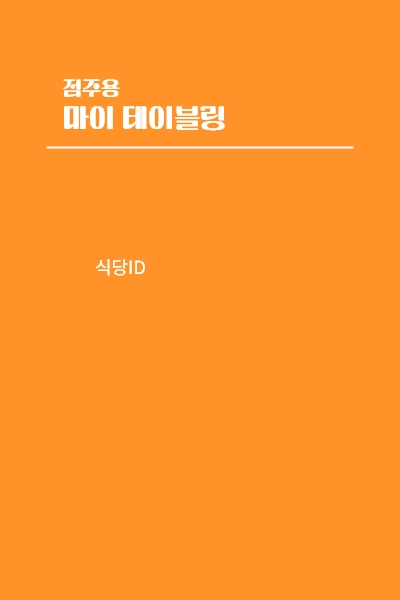
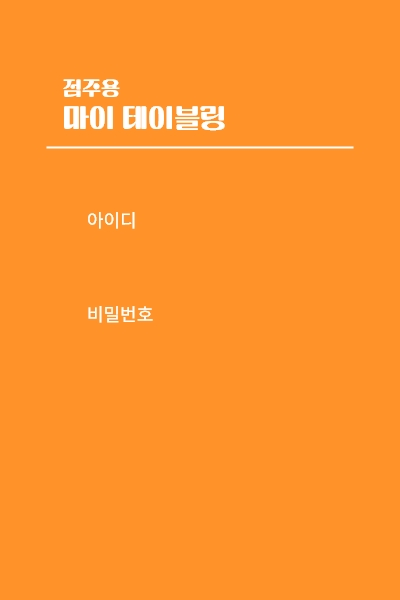
점주로그인창 비밀번호 매칭 구현

Changed region(s): [[0.21, 0.33, 0.36, 0.39], [0.24, 0.42, 0.36, 0.48], [0.21, 0.51, 0.39, 0.54]]

diff --git a/src/tabling/frame/RestaurantLoginFrame.java b/src/tabling/frame/RestaurantLoginFrame.java
@@ -18,13 +18,12 @@ import tabling.dto.RestaurantDTO;
 
 public class RestaurantLoginFrame extends JFrame {
 
-	private JLabel loginBtn;
-	private JTextField nameText;
-	private boolean loginCheck;
-	private JLabel backBtn;
 	private BackgroundPanel backgroundPanel;
-	
-	// TODO - 임시로 클래스 설계
+	private JTextField resIdText;
+	private JTextField resPwText; // TODO
+	private JLabel loginBtn;
+	private JLabel backBtn;
+	private boolean loginCheck;
 	private RestaurantDAO restaurantDao;
 	private RestaurantDTO restaurantDto;
 	private int restaurantId;
@@ -38,9 +37,10 @@ public class RestaurantLoginFrame extends JFrame {
 	private void initData() {
 		backgroundPanel = new BackgroundPanel();
 		loginBtn = new JLabel(new ImageIcon("img/loginBtn.png"));
-		nameText = new JTextField();
+		resIdText = new JTextField();
+		resPwText = new JTextField();
 		backBtn = new JLabel(new ImageIcon("img/quitBtn.png"));
-	
+
 		restaurantDao = new RestaurantDAO();
 		restaurantDto = new RestaurantDTO();
 	}
@@ -58,7 +58,7 @@ public class RestaurantLoginFrame extends JFrame {
 		backgroundPanel.setLayout(null);
 		add(backgroundPanel);
 
-		loginBtn.setBounds(35, 420, 314, 46);
+		loginBtn.setBounds(35, 425, 314, 46);
 		loginBtn.setFont(new Font("Noto Sans KR", Font.BOLD, 15));
 		backgroundPanel.add(loginBtn);
 
@@ -66,32 +66,45 @@ public class RestaurantLoginFrame extends JFrame {
 		backBtn.setFont(new Font("Noto Sans KR", Font.BOLD, 15));
 		backgroundPanel.add(backBtn);
 
-		nameText.setBounds(90, 285, 100, 30);
-		nameText.setSize(220, 25);
-		nameText.setFont(new Font("Noto Sans KR", Font.BOLD, 15));
-		nameText.setBorder(null);
-		backgroundPanel.add(nameText);
+		resIdText.setBounds(85, 240, 100, 30);
+		resIdText.setSize(220, 25);
+		resIdText.setFont(new Font("Noto Sans KR", Font.BOLD, 15));
+		resIdText.setBorder(null);
+		backgroundPanel.add(resIdText);
 
+		resPwText.setBounds(85, 330, 100, 30);
+		resPwText.setSize(220, 25);
+		resPwText.setFont(new Font("Noto Sans KR", Font.BOLD, 15));
+		resPwText.setBorder(null);
+		backgroundPanel.add(resPwText);
 	}
 
 	private void initListener() {
 		loginBtn.addMouseListener(new MouseAdapter() {
-			
+
 			@Override
 			public void mousePressed(MouseEvent e) {
-				
-				if (!nameText.getText().equals("")) {
-					restaurantId = Integer.parseInt(nameText.getText());
-					if((restaurantDto = restaurantDao.authenticateOwnerId(restaurantId)) != null) {
-						JOptionPane.showMessageDialog(null, "로그인 되었습니다.", "성공", JOptionPane.WARNING_MESSAGE);
-						setVisible(false);
+
+				try {
+					if (!resIdText.getText().equals("") || !resPwText.getText().equals("")) {
+						restaurantId = Integer.parseInt(resIdText.getText());
+						if ((restaurantDto = restaurantDao.authenticateOwnerId(restaurantId)) != null
+								&& resPwText.getText().equals("1111")) {
+							JOptionPane.showMessageDialog(null, "로그인 되었습니다.", "성공", JOptionPane.WARNING_MESSAGE);
+							setVisible(false);
+						} else if ((restaurantDto = restaurantDao.authenticateOwnerId(restaurantId)) == null) {
+							JOptionPane.showMessageDialog(null, "아이디가 올바르지 않습니다.", "성공", JOptionPane.WARNING_MESSAGE);
+						} else {
+							JOptionPane.showMessageDialog(null, "비밀번호가 올바르지 않습니다.", "성공", JOptionPane.WARNING_MESSAGE);
+						}
 					}
+				} catch (NumberFormatException e1) {
+					JOptionPane.showMessageDialog(null, "존재하지 않는 ID입니다.", "성공", JOptionPane.WARNING_MESSAGE);
 				}
-				
 			}
-			
+
 		});
-		
+
 		backBtn.addMouseListener(new MouseAdapter() {
 			@Override
 			public void mousePressed(MouseEvent e) {
